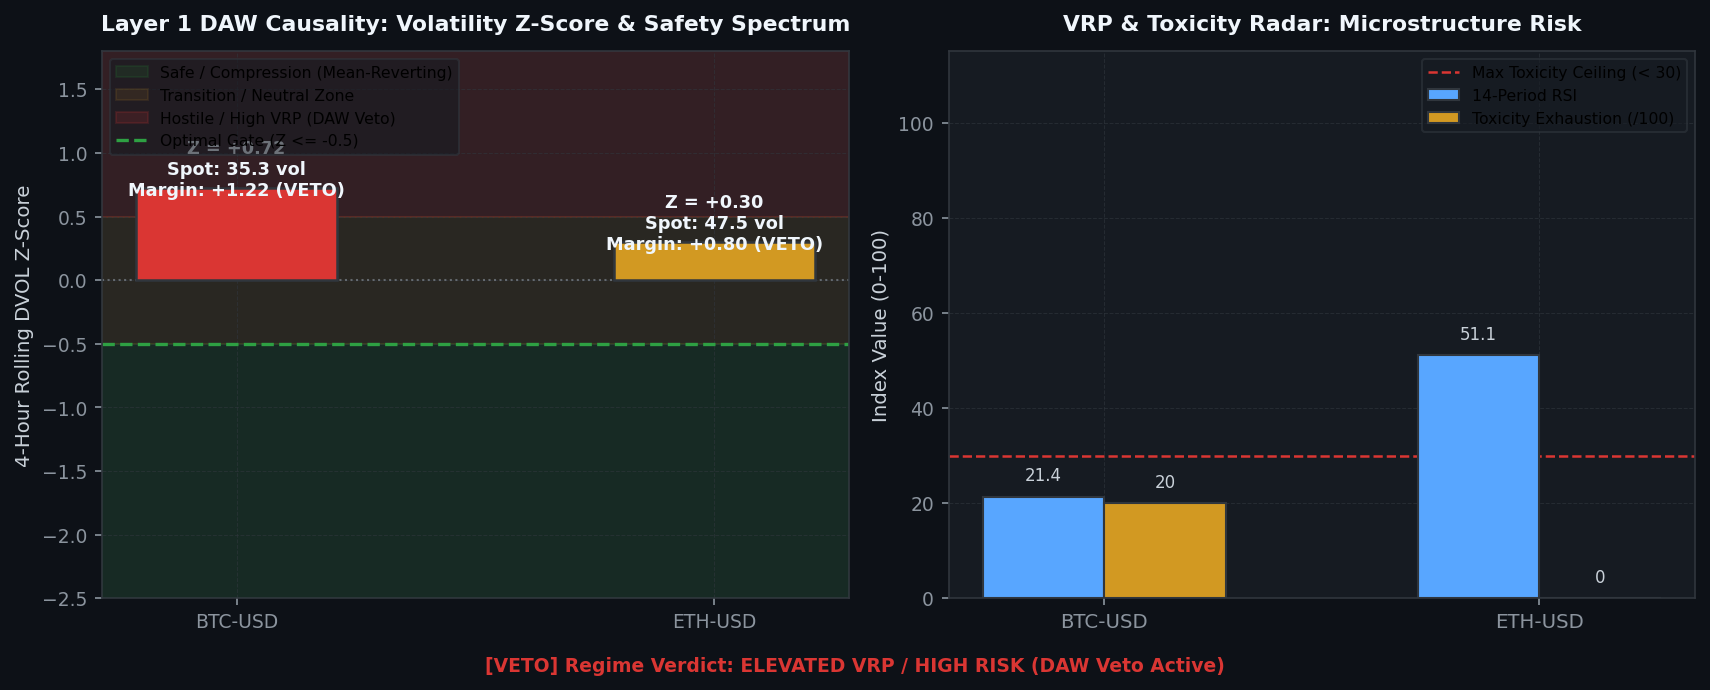
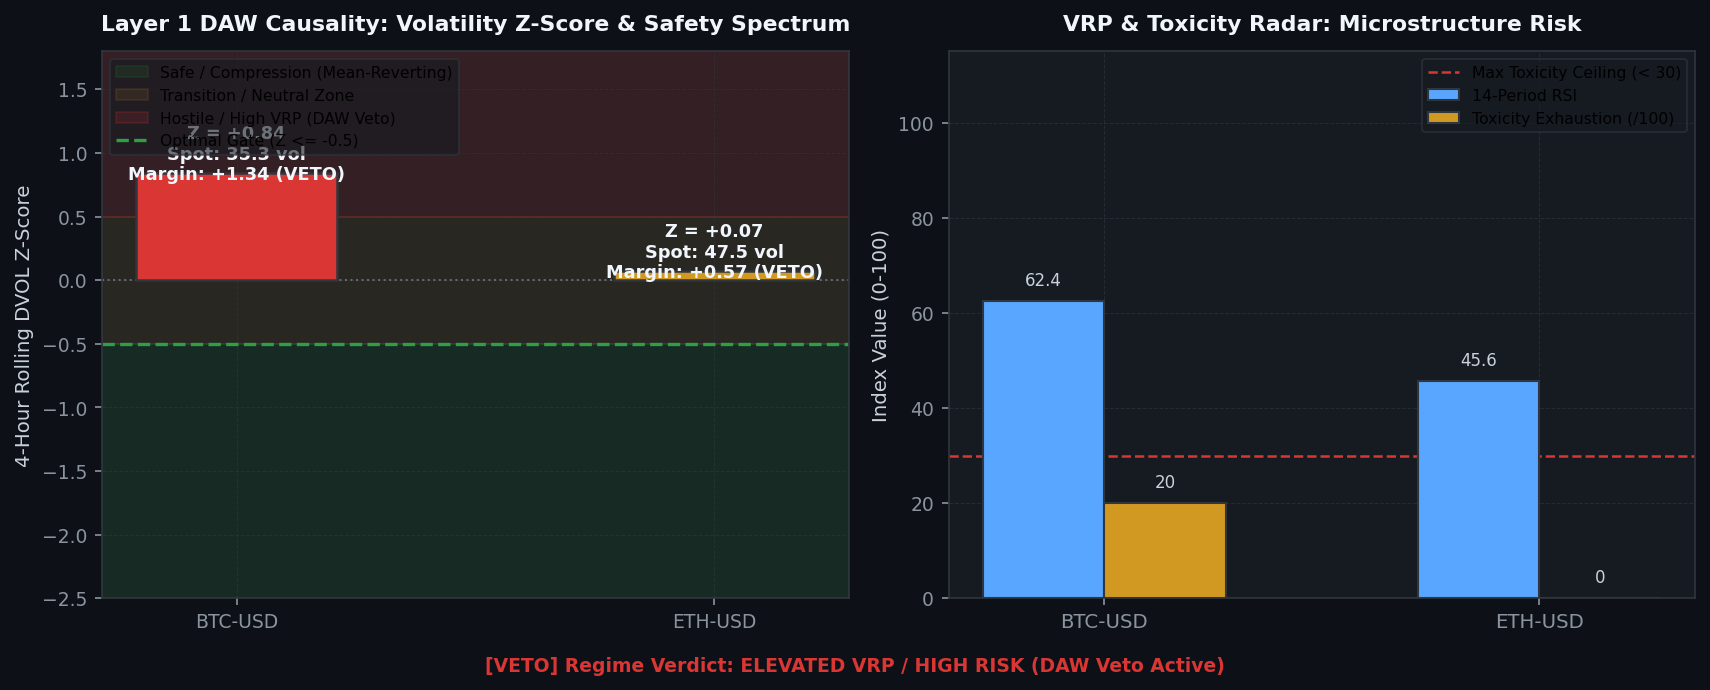
[coinbase] Hourly Status & Visual Intelligence Update: 2026-08-16 06:46:04

diff --git a/coinbase/data/hourly_status_report.md b/coinbase/data/hourly_status_report.md
@@ -1,5 +1,5 @@
 # 🛡 Unified Trading System Hourly Status & Visual Intelligence
-> **Report Generated**: `2026-08-16 06:27:31 AM PDT (2026-08-16 13:27:31 UTC)`  
+> **Report Generated**: `2026-08-16 06:45:43 AM PDT (2026-08-16 13:45:43 UTC)`  
 > **System Health**: **🟡 DEGRADED / RESTRICTED** | **Win Rate**: `0.0%` | **Completed Trades**: `0`
 
 ---
@@ -8,13 +8,13 @@ Real-time Deribit implied volatility (DVOL) proxy tracking against mathematicall
 
 | Symbol | Proxy Oracle | Live Z-Score | Optimal Limit (YSP) | Safety Margin | Live VRP | Optimal VRP (YSP) | DAW Safety Verdict |
 | :--- | :--- | :--- | :--- | :--- | :--- | :--- | :--- |
-| `AVAX-USD` | DVOL_BTC | **+0.72** | **-0.50** | **+1.22** | **+29.85** | 5.0 | 🔴 DAW VETOED |
-| `ETH-USD` | DVOL_ETH | **+0.30** | **-0.50** | **+0.80** | **+42.13** | 5.0 | 🔴 DAW VETOED |
-| `ADA-USD` | DVOL_BTC | **+0.72** | **-0.50** | **+1.22** | **+29.85** | 5.0 | 🔴 DAW VETOED |
-| `DOGE-USD` | DVOL_BTC | **+0.72** | **-0.50** | **+1.22** | **+29.85** | 5.0 | 🔴 DAW VETOED |
-| `BTC-USD` | DVOL_BTC | **+0.72** | **-0.50** | **+1.22** | **+29.85** | 5.0 | 🔴 DAW VETOED |
-| `LINK-USD` | DVOL_BTC | **+0.72** | **-0.50** | **+1.22** | **+29.85** | 5.0 | 🔴 DAW VETOED |
-| `SOL-USD` | DVOL_BTC | **+0.72** | **-0.50** | **+1.22** | **+29.85** | 5.0 | 🔴 DAW VETOED |
+| `AVAX-USD` | DVOL_BTC | **+0.84** | **-0.50** | **+1.34** | **+29.89** | 5.0 | 🔴 DAW VETOED |
+| `ETH-USD` | DVOL_ETH | **+0.07** | **-0.50** | **+0.57** | **+42.14** | 5.0 | 🔴 DAW VETOED |
+| `ADA-USD` | DVOL_BTC | **+0.84** | **-0.50** | **+1.34** | **+29.89** | 5.0 | 🔴 DAW VETOED |
+| `DOGE-USD` | DVOL_BTC | **+0.84** | **-0.50** | **+1.34** | **+29.89** | 5.0 | 🔴 DAW VETOED |
+| `BTC-USD` | DVOL_BTC | **+0.84** | **-0.50** | **+1.34** | **+29.89** | 5.0 | 🔴 DAW VETOED |
+| `LINK-USD` | DVOL_BTC | **+0.84** | **-0.50** | **+1.34** | **+29.89** | 5.0 | 🔴 DAW VETOED |
+| `SOL-USD` | DVOL_BTC | **+0.84** | **-0.50** | **+1.34** | **+29.89** | 5.0 | 🔴 DAW VETOED |
 
 ![DVOL Market Regime](./images/dvol_regime_timeline.png)
 
@@ -44,12 +44,12 @@ We hereby certify that the mission-critical algorithmic data assets uploaded by 
 
 | Status | Data Asset | Freshness / State | Details / Timestamp |
 | :---: | :--- | :--- | :--- |
-| ✅ | **Go-List JSON** | Fresh (71.31h old) | 08-13 07:08 |
-| ✅ | **TimesFM Forecasts** | Fresh (1.78h old) | 08-16 04:41 |
-| ✅ | **Holding Times config** | Fresh (92.80h old) | 08-12 09:39 |
-| ✅ | **BTC DVOL Cache** | Fresh (0.00h old) | 08-16 06:27 |
-| ✅ | **ETH DVOL Cache** | Fresh (0.00h old) | 08-16 06:27 |
-| ✅ | **Live Trading Telemetry** | Fresh (0.00h old) | 08-16 06:27 |
+| ✅ | **Go-List JSON** | Fresh (71.62h old) | 08-13 07:08 |
+| ✅ | **TimesFM Forecasts** | Fresh (2.08h old) | 08-16 04:41 |
+| ✅ | **Holding Times config** | Fresh (93.10h old) | 08-12 09:39 |
+| ✅ | **BTC DVOL Cache** | Fresh (0.01h old) | 08-16 06:45 |
+| ✅ | **ETH DVOL Cache** | Fresh (0.01h old) | 08-16 06:45 |
+| ✅ | **Live Trading Telemetry** | Fresh (0.00h old) | 08-16 06:45 |
 
 <br>
 
@@ -62,7 +62,7 @@ Layer-by-layer tick evaluation waterfall and asset-specific performance tracking
 
 | Funnel Filter Layer | Total Rejections | % of Rejections |
 | :--- | :--- | :--- |
-| Layer 1: DAW Causal Volatility Veto | `43,505` | **100.0%** |
+| Layer 1: DAW Causal Volatility Veto | `43,848` | **100.0%** |
 | Layer 2A: Vol Surface Skew & VRP Gate | `0` | **0.0%** |
 | Layer 2B: DVOL Directional Momentum Bias | `0` | **0.0%** |
 | Layer 2C: KER Efficiency Noise Filter | `0` | **0.0%** |
@@ -91,14 +91,14 @@ Live balance sheet and open maker liquidity positions from Coinbase CDP.
 ## 4. 🤖 Foundation Model MLOps & Pipeline Orchestration
 Weekly Algorithmic Mega Cap selection, Zero-shot multi-step forward return forecasts, and VSTEF parameter grid search status.
 
-- **TimesFM Forecast DB**: 🟢 Updated 1.8h ago (2026-08-16 04:41 AM PDT)
+- **TimesFM Forecast DB**: 🟢 Updated 2.1h ago (2026-08-16 04:41 AM PDT)
 - **Last Weekly VSTEF Optimization**: `2026-08-05 09:22:38 AM PDT`
-- **Next Scheduled VSTEF Run**: `2026-08-16 07:00:00 PM PDT (Monday 02:00 UTC)` (Countdown: **12.5h (0d 12h 32m)**)
+- **Next Scheduled VSTEF Run**: `2026-08-16 07:00:00 PM PDT (Monday 02:00 UTC)` (Countdown: **12.2h (0d 12h 14m)**)
 - **Promoted Parameter Gates**: $Z_{DVOL} \le -0.5$ | Holding Horizon $= 12\text{h}$
 
 ### Algorithmic Mega Cap Selection
 - **Last Run (Confirmation)**: `Never`
-- **Next Scheduled Run**: `2026-08-16 06:00:00 PM PDT (Monday 01:00 UTC)` (Countdown: **11.5h (0d 11h 32m)**)
+- **Next Scheduled Run**: `2026-08-16 06:00:00 PM PDT (Monday 01:00 UTC)` (Countdown: **11.2h (0d 11h 13m)**)
 - **Selected Mega Cap Universe**: `Could not fetch active universe from EC2`
 
 ![TimesFM Forecast Matrix](./images/timesfm_forecast_matrix.png)
@@ -112,19 +112,19 @@ Visualizing the impact of the VSTEF (Volatility-Synchronized Stop-Tightening Exe
 ## 5. 🖥 Multi-Node Infrastructure & Watchdog Matrix
 ```text
 ================================================================================
-   🛡  SFGK FUNNEL GUARDIAN WATCHDOG (HFT ONLY) |  01:27:29 PM
-   CPU:  18.7%  |  MEM:   6.5% (14.4GB / 15.4GB Free)
+   🛡  SFGK FUNNEL GUARDIAN WATCHDOG (HFT ONLY) |  01:45:44 PM
+   CPU:  17.0%  |  MEM:   6.4% (14.4GB / 15.4GB Free)
 ================================================================================
 SERVICE              | PID      | STATUS          | RESTARTS | INFO
 --------------------------------------------------------------------------------
-L3 Consumer          | 814648   | RUNNING         | -        | Continuous Websocket Feed
-Trader AVAX-USD      | 908695   | RUNNING         | 303      | Evaluating Funnel/Polling Order
-Trader ETH-USD       | 908696   | RUNNING         | 303      | Evaluating Funnel/Polling Order
-Trader ADA-USD       | 908697   | RUNNING         | 303      | Evaluating Funnel/Polling Order
-Trader DOGE-USD      | 908698   | RUNNING         | 303      | Evaluating Funnel/Polling Order
-Trader BTC-USD       | 908699   | RUNNING         | 303      | Evaluating Funnel/Polling Order
-Trader LINK-USD      | 908700   | RUNNING         | 303      | Evaluating Funnel/Polling Order
-Trader SOL-USD       | 908701   | RUNNING         | 303      | Evaluating Funnel/Polling Order
+L3 Consumer          | 920473   | RUNNING         | -        | Continuous Websocket Feed
+Trader AVAX-USD      | 925366   | RUNNING         | 15       | Evaluating Funnel/Polling Order
+Trader ETH-USD       | 925367   | RUNNING         | 15       | Evaluating Funnel/Polling Order
+Trader ADA-USD       | 925368   | RUNNING         | 15       | Evaluating Funnel/Polling Order
+Trader DOGE-USD      | 925369   | RUNNING         | 15       | Evaluating Funnel/Polling Order
+Trader BTC-USD       | 925370   | RUNNING         | 15       | Evaluating Funnel/Polling Order
+Trader LINK-USD      | 925371   | RUNNING         | 15       | Evaluating Funnel/Polling Order
+Trader SOL-USD       | 925372   | RUNNING         | 15       | Evaluating Funnel/Polling Order
 ================================================================================
 ```
 
